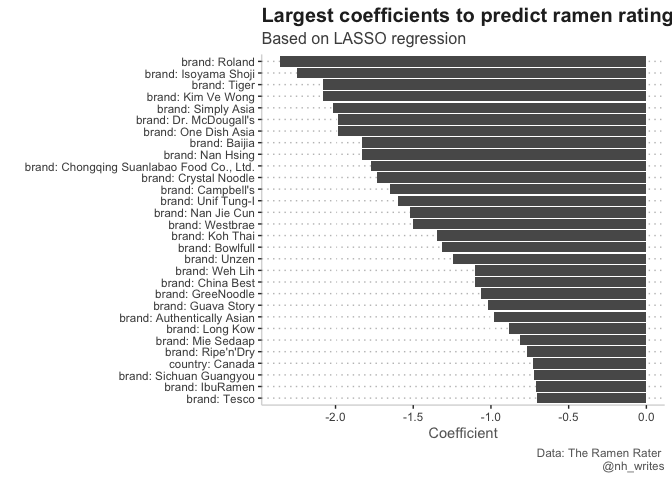
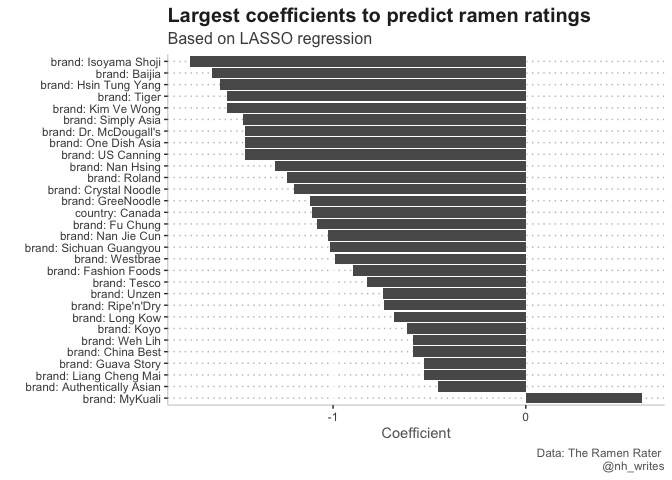
Testing the LASSO models with the test data and compared to linear regression

diff --git a/2019-23/Ramen_Ratings.md b/2019-23/Ramen_Ratings.md
@@ -7,6 +7,7 @@ Nancy Huynh
     -   [Data Import and Libraries](#data-import-and-libraries)
     -   [What are the ratings across brand, style, and country of origin?](#what-are-the-ratings-across-brand-style-and-country-of-origin)
     -   [What factors influences the star rating of the ramen?](#what-factors-influences-the-star-rating-of-the-ramen)
+        -   [Testing the model with the test set `ramen_test`](#testing-the-model-with-the-test-set-ramen_test)
     -   [Things to do later](#things-to-do-later)
     -   [References](#references)
 
@@ -113,13 +114,13 @@ plot(cv.lasso)
 cv.lasso$lambda.min
 ```
 
-    ## [1] 0.01407287
+    ## [1] 0.01658126
 
 ``` r
 cv.lasso$lambda.1se
 ```
 
-    ## [1] 0.03251016
+    ## [1] 0.04203953
 
 ``` r
 #choosing lambda.1se as this seems to be the typical choice so as to not overfit
@@ -149,10 +150,95 @@ ramen_coefs %>%
 
 ![](Ramen_Ratings_files/figure-markdown_github/ramen_coefs-1.png)
 
+``` r
+#ggsave("ramen_coefficients.png", device = "png", units = "cm", width = 29, height = 21, dpi = "retina")
+```
+
+### Testing the model with the test set `ramen_test`
+
+Since the model predicts stars as a continous number, but the ramen rater rates in 0.25 increments so I rounded the predicted values to the nearest 0.25.
+
+#### LASSO model with lambda.1se
+
+``` r
+ramen_lasso_model <- glmnet(x = features, y = ramen_train$stars, alpha = 1, lambda = cv.lasso$lambda.1se)
+ramen_test_features <- model.matrix(stars ~ brand + style + country, ramen_test)[, -1]
+
+predicted_stars <- as.data.frame(predict(ramen_lasso_model, newx = ramen_test_features)) %>%
+  rename(predicted = s0) %>%
+  bind_cols(stars = ramen_test$stars) %>%
+  mutate(predicted_stars = round(predicted * 4) / 4,
+         error2 = (predicted_stars - stars)^2)
+
+predicted_stars %>%
+  summarise(RMSE = sqrt(mean(error2)))
+```
+
+    ##        RMSE
+    ## 1 0.8979644
+
+#### LASSO model with lambda.min
+
+``` r
+ramen_lasso_model <- glmnet(x = features, y = ramen_train$stars, alpha = 1, lambda = cv.lasso$lambda.min)
+ramen_test_features <- model.matrix(stars ~ brand + style + country, ramen_test)[, -1]
+
+predicted_stars <- as.data.frame(predict(ramen_lasso_model, newx = ramen_test_features)) %>%
+  rename(predicted = s0) %>%
+  bind_cols(stars = ramen_test$stars) %>%
+  mutate(predicted_stars = round(predicted * 4) / 4,
+         error2 = (predicted_stars - stars)^2)
+
+predicted_stars %>%
+  summarise(RMSE = sqrt(mean(error2)))
+```
+
+    ##        RMSE
+    ## 1 0.8728159
+
+#### Linear model
+
+I hade trouble running the model against the testing data `ramen_test` because some of the brands in that set were not present in the training set so I ran `predict` on the same training data set to get the error and RMSE. Since the model is fitted to that data it is expected that the RMSE would be lower than the LASSO models.
+
+``` r
+ramen_lm_model <- lm(stars ~ brand + style + country, data = ramen_train)
+predicted_stars <- data.frame(predicted = predict.lm(ramen_lm_model)) %>%
+  bind_cols(stars = ramen_train$stars) %>%
+  mutate(predicted_stars = round(predicted * 4) / 4,
+         error2 = (predicted_stars - stars)^2)
+
+predicted_stars %>%
+  summarise(RMSE = sqrt(mean(error2)))
+```
+
+    ##        RMSE
+    ## 1 0.7922031
+
+After removing the brands in the test set that were not present in the training set the RMSE is much higher than the linear RMSE above and is very close to the two LASSO model RMSEs. Since LASSO models are less complex, this bodes well as simpler models with similar error is generally considered better from a practical standpoint.
+
+``` r
+ramen_test_brands_rm <- semi_join(ramen_test, ramen_train, by = "brand")
+predicted_stars <- data.frame(predicted = predict.lm(ramen_lm_model, newdata = ramen_test_brands_rm)) %>%
+  bind_cols(stars = ramen_test_brands_rm$stars) %>%
+  mutate(predicted_stars = round(predicted * 4) / 4,
+         error2 = (predicted_stars - stars)^2)
+```
+
+    ## Warning in predict.lm(ramen_lm_model, newdata = ramen_test_brands_rm):
+    ## prediction from a rank-deficient fit may be misleading
+
+``` r
+predicted_stars %>%
+  summarise(RMSE = sqrt(mean(error2)))
+```
+
+    ##        RMSE
+    ## 1 0.8688813
+
 Things to do later
 ------------------
 
-This is by no means a complete analysis; I'm just trying out LASSO regression using this fairly simple dataset. After looking at the top 30 coefficients I should somehow limit the brands to those that occur more than say 5 times. For example the largest coefficient is brand "Roland", which only occurs 2 times in the whole dataset. I should also see how well the model fairs against the test data set I split out called `ramen_test`.
+This is by no means a complete analysis; I'm just trying out LASSO regression using this fairly simple dataset. After looking at the top 30 coefficients I should somehow limit the brands to those that occur more than say 5 times. For example the largest coefficient is brand "Roland", which only occurs 2 times in the whole dataset.
 
 References
 ----------
